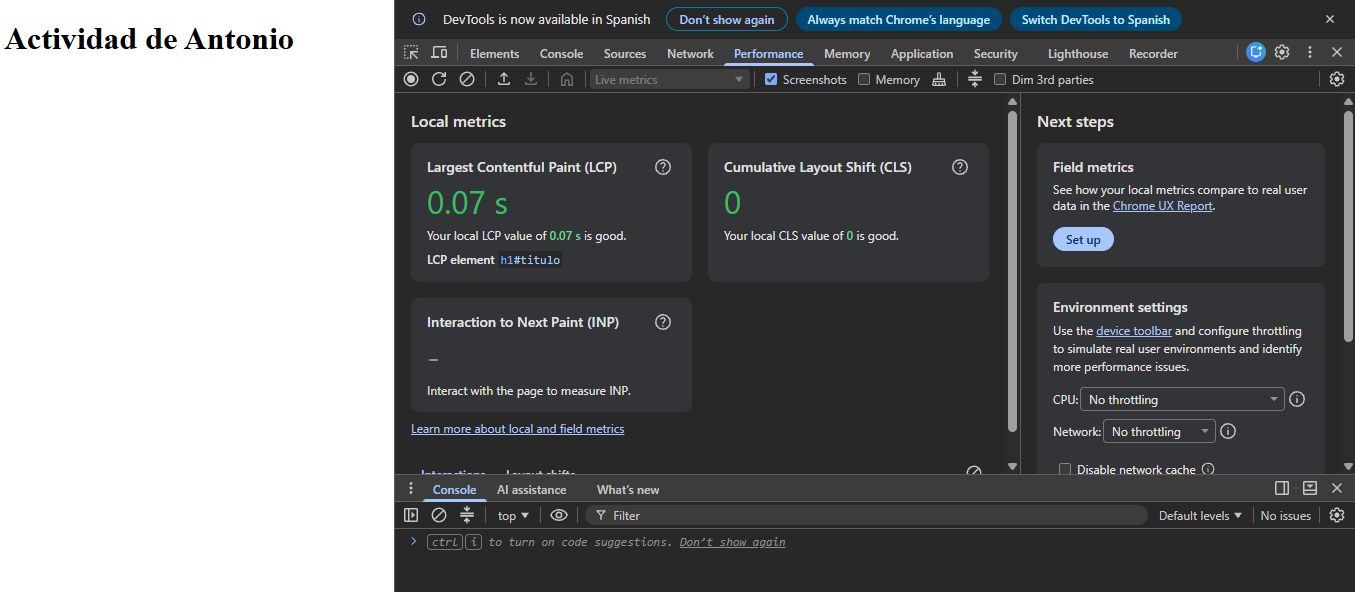
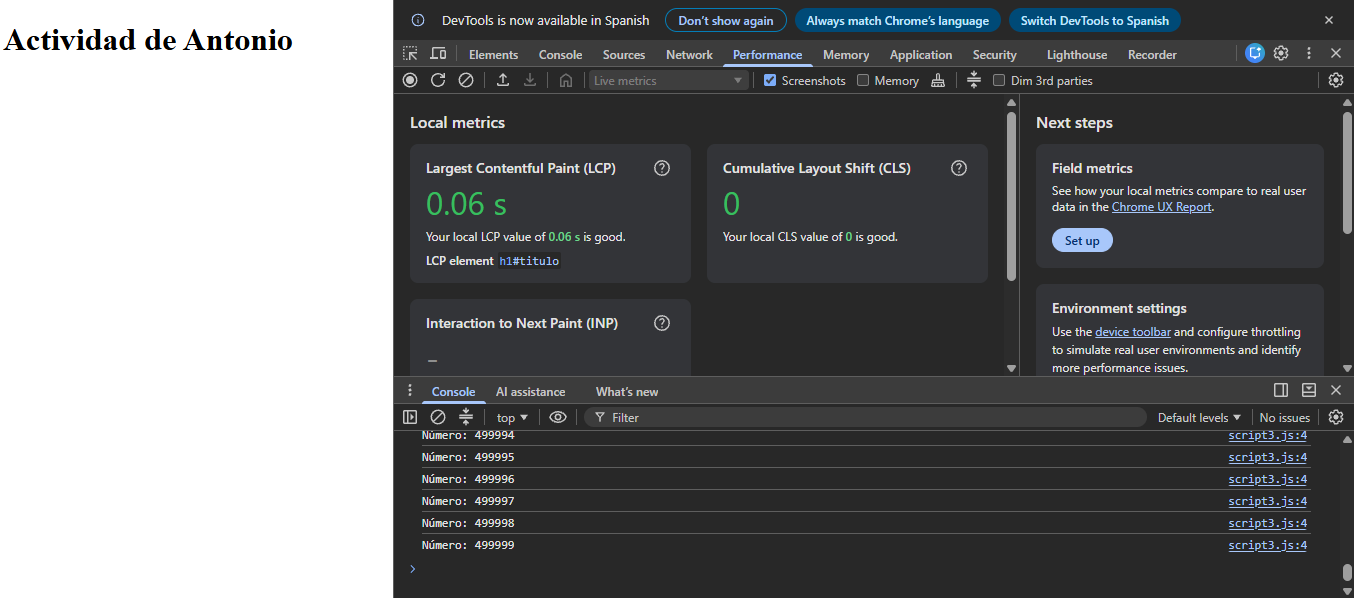
Update Actividad 2

diff --git a/Actividad2/index.html b/Actividad2/index.html
@@ -5,13 +5,14 @@
     <meta name="viewport" content="width=device-width, initial-scale=1.0">
     <title>IndexAct2</title>
 
+    <!-- Prueba para ejecutar el script module en el head -->
+    <script src="script1.js"></script>
 </head>
 <body>
     
 <!-- Elemento vacío sobre el que trabajar -->
 <h1 id="titulo">Hola</h1>
 
-    <!-- Prueba para ejecutar el script module en el head -->
-    <script src="script1.js"></script>
+
 </body>
 </html>

diff --git a/Actividad2/InformeIntegracion.md b/Actividad2/InformeIntegracion.md
@@ -29,14 +29,14 @@ Captura de DevTools:
 
 ![](/Actividad2/resources2/screenshots2/DevToolsBodyScript1.png)
 
-Se puede observar que tarda 0.05 s en pintar el título, pero más importante, que esta vez el texto ha cambiado por el definido en el script1 ("Cambiado por X"), ya que el script se ejecuta una vez que se ha creado el elemento que modifica (al final del body). Además, no se detecta error en consola. 
+Se puede observar que tarda 0.04 s en pintar el título, pero más importante, que esta vez el texto ha cambiado por el definido en el script1 ("Cambiado por X"), ya que el script se ejecuta una vez que se ha creado el elemento que modifica (al final del body). Además, no se detecta error en consola. 
 
 
 Se continúan realizando pruebas, en este caso integrando el script async en el head:
 
 ![](/Actividad2/resources2/screenshots2/IndexHTMLHeadScriptAsync.png)
 
-En este caso se prueba con el script 3 y se observa que, además del tiempo de 0.07s para pintar el título, ahora el script se ejecuta pese a estar colocado, ya que mientras éste se descarga el HTML continúa pintándose, de modo que una vez descargado el script la página ya estaba formada y éste puede actuar y realizar su correspondiente modificación al título.
+Se prueba con el script 3 y se observa que, además del tiempo de 0.06s para pintar el título, ahora el script se ejecuta pese a estar colocado en el head, ya que mientras éste se descarga el HTML continúa pintándose, de modo que una vez descargado el script la página ya está formada y éste puede actuar y realizar su correspondiente modificación al título.
 
 ![](/Actividad2/resources2/screenshots2/DevToolsAsyncScript3.png)
 
@@ -46,7 +46,7 @@ Después se prueba el script 2 defer en el head:
 ![](/Actividad2/resources2/screenshots2/IndexHTMLHeadScriptDefer.png)
 
 
-Los resultados muestran, además del tiempo de 0.06 s, que el script se descargue de forma paralela al procesamiento del HTML, sin pausar ni bloquear este proceso, ejecutándose el script una vez la página ha sido procesada y pintada.
+Los resultados muestran, además del tiempo de 0.05 s, que el script se descargue de forma paralela al procesamiento del HTML, sin pausar ni bloquear este proceso, ejecutándose el script una vez la página ha sido procesada y pintada.
 
 ![](/Actividad2/resources2/screenshots2/DevToolsDeferScript2.png)
 
